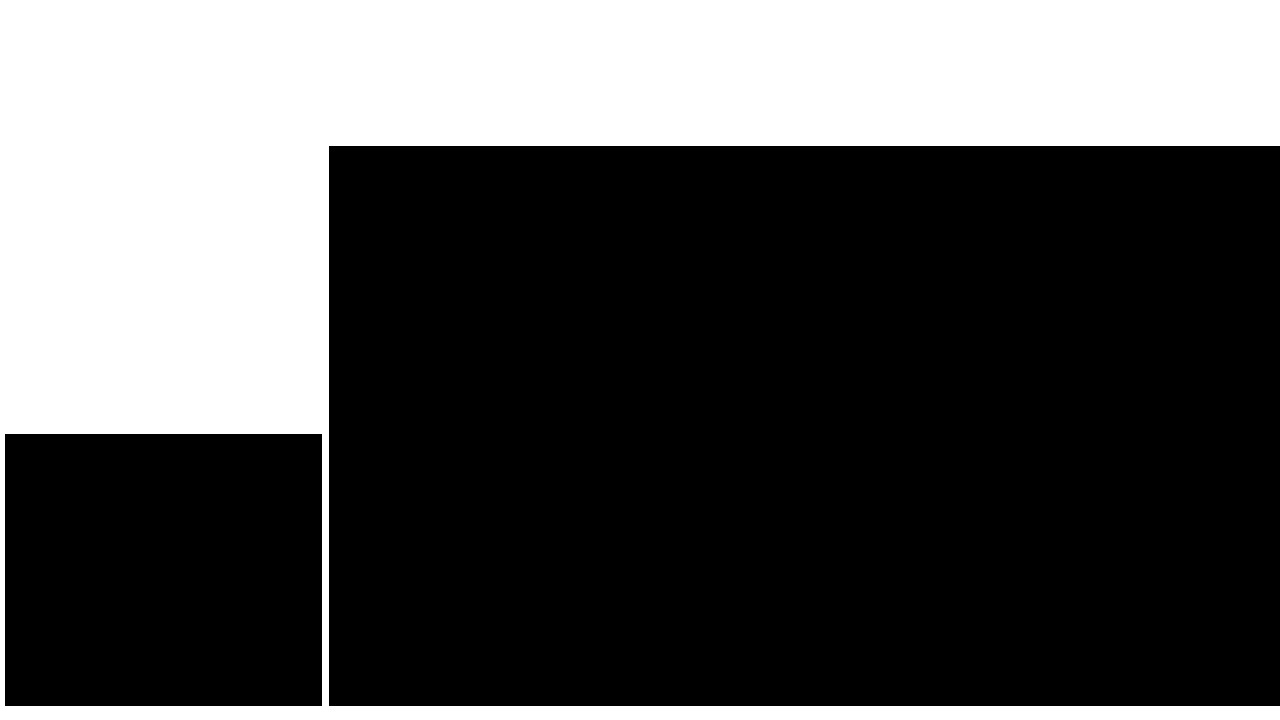
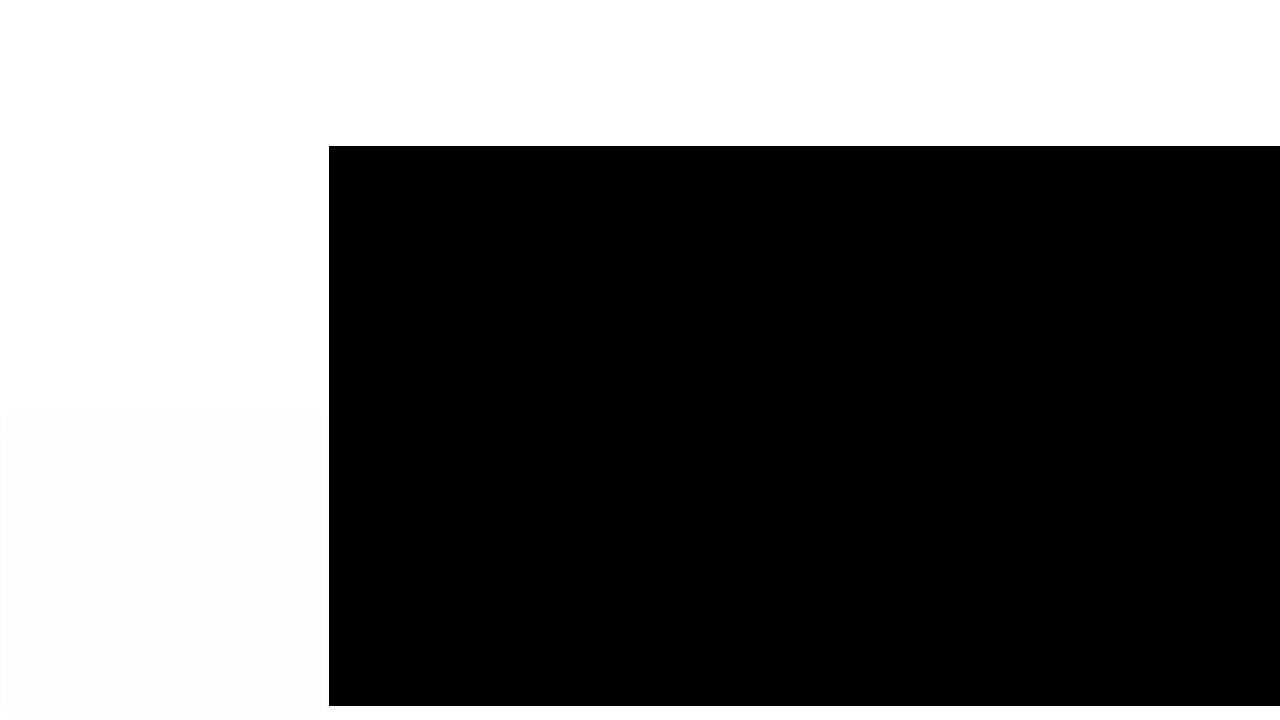
folder hierarchy ver1!

Changed region(s): [[0.0, 0.5806, 0.25, 1.0]]

diff --git a/ide.py b/ide.py
@@ -1,6 +1,8 @@
 import pygame, sys, wx, subprocess, re, time, os
 from io import TextIOWrapper
 from button import Button
+from const import *
+from folder import FolderHierarchy
 
 # FILE: helpers.py
 wapp = wx.App()
@@ -40,20 +42,22 @@ def new(self, app):
 				else: save(None, app)
 	app.enableTxtField(340, 160, 93, 27)
 
-def open_file(self, app):
+def open_file(self, app, path=''):
+	print(path)
+	if not path:
+		with wx.FileDialog(frm, "Open file", wildcard="Any file|*",
+						   style=wx.FD_OPEN | wx.FD_FILE_MUST_EXIST) as fileDialog:
+			if fileDialog.ShowModal() == wx.ID_CANCEL:
+				return
+			path = fileDialog.GetPath()
 	app.txtField.txtBuffer = [[]]
-	with wx.FileDialog(frm, "Open file", wildcard="Any file|*",
-					   style=wx.FD_OPEN | wx.FD_FILE_MUST_EXIST) as fileDialog:
-		if fileDialog.ShowModal() == wx.ID_CANCEL:
-			return
-		path = fileDialog.GetPath()
-		app.txtField.fileName = path
-		with open(path, 'r') as fr:
-			for ch in fr.read():
-				if ch == '\n':
-					app.txtField.txtBuffer.append([])
-				else: app.txtField.txtBuffer[-1].append([ch, (255, 255, 255)])
-		app.txtField.changeLine(0)
+	app.txtField.fileName = path
+	with open(path, 'r') as fr:
+		for ch in fr.read():
+			if ch == '\n':
+				app.txtField.txtBuffer.append([])
+			else: app.txtField.txtBuffer[-1].append([ch, (255, 255, 255)])
+	app.txtField.changeLine(0)
 	parse(app.txtField, app.txtField.palette)
 
 def save_as(self, app):
@@ -195,7 +199,6 @@ class Framework:
 		self.screen = pygame.display.set_mode((1280, 720))
 		pygame.display.set_caption("DIOXIDE")
 		self.clock = pygame.time.Clock()
-		self.mono = pygame.font.Font("res/JetBrainsMono-Regular.ttf", 18)
 		self.segoe = pygame.font.Font("res/segoeui.ttf", 14)
 		self.speed = 5
 		self.mousePos = (0, 0)
@@ -237,6 +240,17 @@ class App:
 		self.cursor_in_txt = False
 		self.cursor_img = pygame.image.load("res/cursor.png").convert_alpha()
 		self.cursor_rect = self.cursor_img.get_rect()
+
+		# folder hierarchy
+		flg = 1
+		while flg:
+			with wx.DirDialog(frm, "Choose workspace", "", wx.DD_DEFAULT_STYLE | wx.DD_DIR_MUST_EXIST) as dlg:
+				if dlg.ShowModal() == wx.ID_OK:
+					self.workspace = dlg.GetPath()
+					flg = 0
+		self.folder_display = FolderHierarchy(self, self.workspace)
+		for btn in self.folder_display.buttons:
+			btn.onClick = lambda s, app: open_file(s, app, self.workspace + '/' + s.txt['content'])
 	def draw(self, screen):
 		if framework.appID != self.appID:
 			return
@@ -253,6 +267,7 @@ class App:
 		if self.cursor_in_txt:
 			self.cursor_rect.center = pygame.mouse.get_pos()
 			screen.blit(self.cursor_img, self.cursor_rect)
+		self.folder_display.draw(screen)
 	def addButton(self, b):
 		self.btnList.append(b)
 	def addTooltip(self, txt, font, x, y, c, rect):
@@ -269,10 +284,12 @@ class App:
 		for menu in self.menus:
 			menu.mouse_down(pos, button, self)
 		self.txtField.mouseDown(pos, button)
+		self.folder_display.mouse_down(pos, button)
 	def mouseUp(self, pos, button):
 		for button in self.btnList:
 			button.mouseUp(pos, button)
 		self.txtField.mouseUp(pos, button)
+		self.folder_display.mouse_up(pos, button)
 	def mouseMotion(self, pos):
 		framework.mousePos = pos
 		for btn in self.btnList:
@@ -280,6 +297,7 @@ class App:
 		for menu in self.menus:
 			menu.mouse_move(pos)
 		self.txtField.mouseMotion(pos)
+		self.folder_display.mouse_move(pos)
 		if 145 <= pos[0] and 150 <= pos[1]:
 			self.cursor_in_txt = True
 		else: self.cursor_in_txt = False
@@ -304,7 +322,6 @@ class TxtField:
 		self.currentChar, self.loc = 0, 0
 		self.lineNum = 0; self.start_y, self.start_x = 0, 0
 		self.cLineStr = ""
-		self.mono = pygame.font.Font("res/JetBrainsMono-Regular.ttf", 18)
 
 		self.fileName = ""
 
@@ -329,13 +346,6 @@ class TxtField:
 
 		self.cursor = Cursor()
 
-		flg = 1
-		while flg:
-			with wx.DirDialog(frm, "Choose workspace", "", wx.DD_DEFAULT_STYLE | wx.DD_DIR_MUST_EXIST) as dlg:
-				if dlg.ShowModal() == wx.ID_OK:
-					self.workspace = dlg.GetPath()
-					flg = 0
-		print(self.workspace)
 	def getContents(self):
 		fileContents = ""
 		for line in self.txtBuffer:
@@ -431,13 +441,13 @@ class TxtField:
 		for j, line in enumerate(self.txtBuffer[self.start_y:self.start_y + self.h]):
 			for i, ch in enumerate(line[self.start_x:self.start_x + self.w]):
 				if ch[0] == '\t':
-					img = self.mono.render(' ', True, ch[1])
+					img = code_font.render(' ', True, ch[1])
 				else:
-					img = self.mono.render(ch[0], True, ch[1])
+					img = code_font.render(ch[0], True, ch[1])
 				screen.blit(img, (self.x + i * 10, j * 20 + self.y - 5))
 
 		for i in range(min(len(self.txtBuffer), self.h)):
-			screen.blit(self.mono.render(str(i+1+self.start_y), True, (100, 100, 100)),
+			screen.blit(code_font.render(str(i+1+self.start_y), True, (100, 100, 100)),
 						(self.x - len(str(i+self.start_y+1)) * 10 - 15, self.y + i * 20 - 5))
 	def keyUp(self, key):
 		if key == pygame.K_LSHIFT or key == pygame.K_RSHIFT:

diff --git a/folder.py b/folder.py
@@ -1,10 +1,13 @@
 import os
-from queue import Queue
+from const import *
+from button import Button
 
 class FolderHierarchy:
-    def __init__(self, workspace):
+    def __init__(self, app, workspace):
+        self.app = app
         self.workspace = workspace
         self.data = {}
+        self.buttons = []
         def dfs(data, path):
             for item in os.scandir(path):
                 if item.is_dir():
@@ -13,3 +16,29 @@ class FolderHierarchy:
                 else:
                     data[item.name] = None
         dfs(self.data, workspace)
+        self.get_buttons(self.data, 0, 150)
+
+    def get_buttons(self, dt, x, y):
+        for item in dt:
+            self.buttons.append(Button(None, "res/icons/folder_btn_bg.bmp", x, y, self.app.appID,
+                                font=ui_font, content=item))
+            if dt[item]:
+                y = self.get_buttons(dt[item], x + 10, y + 26)
+            else: y += 26
+        return y
+
+    def draw(self, screen):
+        for btn in self.buttons:
+            btn.draw(screen)
+
+    def mouse_down(self, pos, button):
+        for btn in self.buttons:
+            btn.mouseDown(pos, button, self.app)
+
+    def mouse_up(self, pos, button):
+        for btn in self.buttons:
+            btn.mouseUp(pos, button)
+
+    def mouse_move(self, pos):
+        for btn in self.buttons:
+            btn.mouseMove(pos)

diff --git a/button.py b/button.py
@@ -31,14 +31,15 @@ class Button:
         self.status = 0
         if not self.rect.collidepoint(pos):
             return
-        framework.apps[self.appID].pic.draw(framework.screen, framework.speed)
-        framework.appID = self.appID
+        #framework.apps[self.appID].pic.draw(framework.screen, framework.speed)
+        #framework.appID = self.appID
     def mouseMove(self, pos):
         if self.rect.collidepoint(pos):
             self.status = 1
         else:
             self.status = 0
 
+"""
 class MenuButton(Button):
     def __init__(self, txt, font, x, y, bg='res/icons/menu_btn_bg.bmp'):
         super().__init__(None, bg, x, y, 0, font=font, content=txt)
@@ -46,3 +47,4 @@ class MenuButton(Button):
 class DropdownButton(Button):
     def __init__(self, txt, font, x, y, with_subitem=False, bg=None):
         super().__init__(None, bg if bg else ("res/icons/dropdown_btn_bg.bmp" if not with_subitem else "res/icons/dropdown_btn_bg_w_sub.bmp"), x, y, 0, font=font, content=txt)
+"""

diff --git a/const.py b/const.py
@@ -1,0 +1,5 @@
+import pygame
+
+pygame.font.init()
+code_font = pygame.font.Font("res/JetBrainsMono-Regular.ttf", 18)
+ui_font = pygame.font.Font("res/segoeui.ttf", 14)
